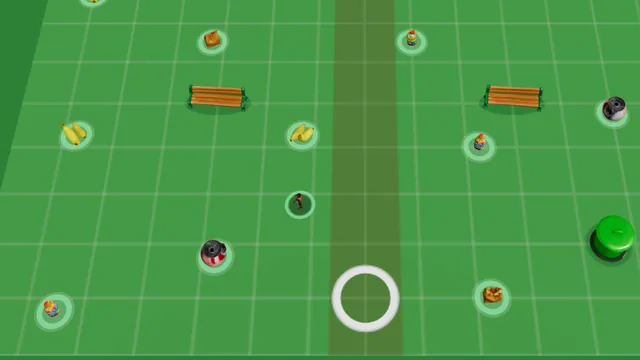
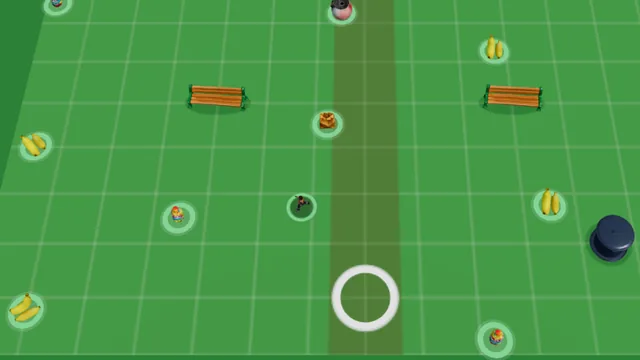
feat(clean-city): draw the bin in dark slate so it stands out on the lawn
The flat-lid bin GLB is green and melted into the park's green lawn. Every
bin of the three maps is now drawn in slate #475569 (assets.ts BIN_COLOR,
also the stand-in drum's colour): Primitives.tsx BinProp instances the bin
like <InstancedModel> (useModel + modelParts, one InstancedMesh per map)
with binLook.ts clones of its material, albedo map dropped, colour set,
normal and metal/roughness maps kept. Made once before the first render and
disposed on unmount; no per-frame work, draw calls unchanged.

binLook.test.ts checks the real GLB's material, the clone, the contrast on
all three grounds and the shared stand-in colour. Thumbnail recaptured; the
OG card's crop does not reach the bin, so it is unchanged.

diff --git a/play50games-frontend/src/arcade3d/games/clean-city/Primitives.tsx b/play50games-frontend/src/arcade3d/games/clean-city/Primitives.tsx
@@ -2,17 +2,18 @@
 
 // Clean the City look: three outdoor grounds, the obstacle props and the litter stand-ins.
 // Decoration only. Positions come from rules.ts MAPS (the same squares the runner collides with,
-// propSpots.ts). Every obstacle is an <InstancedModel> (one draw call per GLB per map) whose
-// fallback is its primitive: bench, bin, lamp, palm and umbrella draw their group D GLBs fitted to
-// the squares (assets.ts), one per propSpots.ts GLB_PROPS entry, its asset and spots as listed
-// there (GlbProps); trees and buildings have no GLB and stay primitives. Litter stand-ins are the
+// propSpots.ts). Every obstacle is an <InstancedModel> (one draw call per GLB per map; the bin the
+// same through BinProp, in slate: binLook.ts) whose fallback is its primitive: bench, bin, lamp,
+// palm and umbrella draw their group D GLBs fitted to the squares (assets.ts), one per propSpots.ts
+// GLB_PROPS entry, its asset and spots as listed there (GlbProps); trees and buildings have no GLB and stay primitives. Litter stand-ins are the
 // fallbackParts of one <DynamicInstancedModel> pool per kind (Scene.tsx).
-import { memo, useEffect, useMemo, useState, type ComponentType, type MutableRefObject, type ReactNode } from "react";
-import { BoxGeometry, CapsuleGeometry, CylinderGeometry, MeshStandardMaterial, type BufferGeometry, type Group, type Material } from "three";
-import { InstancedModel } from "@/arcade3d/core/assets";
-import { Instanced, useCanvasTexture, type CanvasDraw, type InstancePart, type InstanceSpot } from "@/arcade3d/core/render";
+import { memo, useEffect, useMemo, useRef, useState, type ComponentType, type MutableRefObject, type ReactNode } from "react";
+import { BoxGeometry, CapsuleGeometry, CylinderGeometry, MeshStandardMaterial, type BufferGeometry, type Group, type InstancedMesh, type Material } from "three";
+import { InstancedModel, modelParts, useModel, type ModelPart } from "@/arcade3d/core/assets";
+import { Instanced, useCanvasTexture, useInstanceMatrices, type CanvasDraw, type InstancePart, type InstanceSpot } from "@/arcade3d/core/render";
 import type { ModelAsset } from "@/arcade3d/core/types";
-import { ASSETS } from "./assets";
+import { ASSETS, BIN_COLOR } from "./assets";
+import { disposeMaterials, slateMaterials } from "./binLook";
 import { BASE_SETS, CITY_BUILDING, GLB_PROPS, PARK_TREE, type GlbKind } from "./propSpots";
 import { FLOOR_HALF, LITTER_KINDS, MAPS } from "./rules";
 
@@ -26,7 +27,7 @@ const COLORS = {
    benchLeg: "#78716c",
    trunk: "#92400e",
    leaves: "#166534",
-   bin: "#475569",
+   bin: BIN_COLOR,
    binRim: "#94a3b8",
    facade: "#64748b",
    roof: "#334155",
@@ -122,6 +123,36 @@ function Prop({ asset, spots, fallback }: { asset: ModelAsset; spots: readonly I
          <InstancedModel asset={asset} spots={spots} fallback={fallback} />
       </group>
    );
+}
+
+/**
+ * The bins: like <Prop>, one InstancedMesh per GLB mesh for all `spots` (core modelParts places it
+ * as <InstancedModel> would), but drawn in slate (binLook.ts): <InstancedModel> draws the GLB's own
+ * cached material, and the bin GLB is green, lost on the park's lawn. The slate clones are made once
+ * per loaded GLB, before the first render (no needsUpdate, nothing per frame), and disposed of here;
+ * the geometry and textures stay the loader cache's. The primitive while the GLB is missing or broken.
+ */
+function BinProp({ spots, fallback }: { spots: readonly InstanceSpot[]; fallback: ReactNode }) {
+   const asset = ASSETS.bin;
+   const { scene } = useModel(asset);
+   const parts = useMemo(
+      () => (scene ? modelParts(scene, asset).map((part) => ({ ...part, material: slateMaterials(part.material) })) : null),
+      [scene, asset]
+   );
+   useEffect(() => () => parts?.forEach((part) => disposeMaterials(part.material)), [parts]);
+   if (spots.length === 0) return null;
+   return (
+      <group name={`prop-${asset.id}`}>
+         {parts && parts.length > 0 ? parts.map((part, i) => <BinPart key={i} part={part} spots={spots} />) : fallback}
+      </group>
+   );
+}
+
+function BinPart({ part, spots }: { part: ModelPart; spots: readonly InstanceSpot[] }) {
+   const mesh = useRef<InstancedMesh>(null);
+   useInstanceMatrices(mesh, spots, part.matrix);
+   // dispose={null}: the geometry belongs to the loader cache, the material to BinProp
+   return <instancedMesh ref={mesh} args={[part.geometry, part.material, spots.length]} dispose={null} />;
 }
 
 interface PartsProps {
@@ -230,14 +261,16 @@ const GLB_FALLBACK: Record<GlbKind, ComponentType<PartsProps>> = {
 
 /**
  * Every GLB_PROPS entry of map `map`, and nothing else: its asset on its spots, its kind's primitive
- * as the fallback. Then the bases of BASE_SETS (the palm planters, the umbrella stands), one
- * <Instanced> per part, drawn under the GLB or its fallback alike.
+ * as the fallback (the bin's asset is ASSETS.bin, drawn by BinProp in slate). Then the bases of
+ * BASE_SETS (the palm planters, the umbrella stands), one <Instanced> per part, drawn under the GLB
+ * or its fallback alike.
  */
 function GlbProps({ map }: { map: number }) {
    return (
       <>
          {GLB_PROPS.filter((set) => set.map === map).map((set) => {
             const Fallback = GLB_FALLBACK[set.kind];
+            if (set.kind === "bin") return <BinProp key={set.kind} spots={set.spots} fallback={<Fallback spots={set.spots} />} />;
             return <Prop key={set.kind} asset={set.asset} spots={set.spots} fallback={<Fallback spots={set.spots} />} />;
          })}
          {BASE_SETS.filter((set) => set.map === map).map(({ kind, part, spots }, i) => (

diff --git a/play50games-frontend/src/arcade3d/games/clean-city/binLook.test.ts b/play50games-frontend/src/arcade3d/games/clean-city/binLook.test.ts
@@ -1,0 +1,105 @@
+// The bin's slate look (binLook.ts, README "Obstacle props"): the GLB's own material recoloured,
+// detail maps kept, and a colour that stands out on all three grounds.
+import { readFileSync } from "node:fs";
+import path from "node:path";
+import { MeshBasicMaterial, MeshStandardMaterial, Texture } from "three";
+import { describe, expect, it } from "vitest";
+import { ASSETS, BIN_COLOR } from "./assets";
+import { disposeMaterials, slateMaterial, slateMaterials } from "./binLook";
+import { GLB_PROPS } from "./propSpots";
+import { MAPS } from "./rules";
+
+interface GlbMaterial {
+   pbrMetallicRoughness?: { baseColorTexture?: unknown; baseColorFactor?: number[]; metallicRoughnessTexture?: unknown };
+   normalTexture?: unknown;
+}
+
+function glbJson(url: string): { materials: GlbMaterial[]; meshes: { primitives: { material?: number; attributes: Record<string, number> }[] }[] } {
+   const glb = readFileSync(path.join(process.cwd(), "public", url));
+   return JSON.parse(glb.subarray(20, 20 + glb.readUInt32LE(12)).toString("utf8"));
+}
+
+/** WCAG relative luminance of a #rrggbb colour. */
+function luminance(hex: string): number {
+   const [r, g, b] = [1, 3, 5].map((i) => {
+      const c = parseInt(hex.slice(i, i + 2), 16) / 255;
+      return c <= 0.04045 ? c / 12.92 : ((c + 0.055) / 1.055) ** 2.4;
+   });
+   return 0.2126 * r + 0.7152 * g + 0.0722 * b;
+}
+const contrast = (a: string, b: string) => {
+   const [hi, lo] = [luminance(a), luminance(b)].sort((x, y) => y - x);
+   return (hi + 0.05) / (lo + 0.05);
+};
+
+/** A material as GLTFLoader makes the bin's: white colour times the albedo map, plus the detail maps. */
+function glbLikeMaterial() {
+   const maps = { map: new Texture(), normalMap: new Texture(), roughnessMap: new Texture(), metalnessMap: new Texture() };
+   return { maps, material: new MeshStandardMaterial({ ...maps, color: "#ffffff", name: "model" }) };
+}
+
+describe("clean-city bin: slate, not green", () => {
+   it("the bin GLB is one mesh with one material: an albedo texture (the green) on a white factor, plus normal and metal/roughness maps", () => {
+      const json = glbJson(ASSETS.bin.url);
+      expect(json.meshes).toHaveLength(1);
+      expect(json.meshes[0].primitives.map((p) => p.material)).toEqual([0]);
+      expect(json.meshes[0].primitives[0].attributes.COLOR_0).toBeUndefined();
+      expect(json.materials).toHaveLength(1);
+      const [material] = json.materials;
+      // the colour lives in the albedo map alone, so dropping the map leaves exactly `color`
+      expect(material.pbrMetallicRoughness?.baseColorTexture).toBeDefined();
+      expect(material.pbrMetallicRoughness?.baseColorFactor ?? [1, 1, 1, 1]).toEqual([1, 1, 1, 1]);
+      expect(material.normalTexture).toBeDefined();
+      expect(material.pbrMetallicRoughness?.metallicRoughnessTexture).toBeDefined();
+   });
+
+   it("slateMaterial drops the albedo map, sets BIN_COLOR, keeps the normal, roughness and metalness maps, and leaves the GLB's material alone", () => {
+      const { maps, material } = glbLikeMaterial();
+      const slate = slateMaterial(material);
+      expect(slate).not.toBe(material);
+      expect(slate).toBeInstanceOf(MeshStandardMaterial);
+      expect(slate.map).toBeNull();
+      expect(`#${slate.color.getHexString()}`).toBe(BIN_COLOR);
+      expect(slate.normalMap).toBe(maps.normalMap);
+      expect(slate.roughnessMap).toBe(maps.roughnessMap);
+      expect(slate.metalnessMap).toBe(maps.metalnessMap);
+      expect(slate.name).toBe("bin-slate");
+      // the cached GLB material is untouched (other copies, a later mount)
+      expect(material.map).toBe(maps.map);
+      expect(material.color.getHexString()).toBe("ffffff");
+   });
+
+   it("slateMaterials handles a material list and a non-standard material; disposeMaterials frees the clones only", () => {
+      const { maps, material } = glbLikeMaterial();
+      const list = slateMaterials([material, new MeshBasicMaterial()]) as MeshStandardMaterial[];
+      expect(list).toHaveLength(2);
+      for (const slate of list) {
+         expect(slate).toBeInstanceOf(MeshStandardMaterial);
+         expect(slate.map).toBeNull();
+         expect(`#${slate.color.getHexString()}`).toBe(BIN_COLOR);
+      }
+      let disposed = 0;
+      list.forEach((slate) => slate.addEventListener("dispose", () => disposed++));
+      let mapDisposed = false;
+      maps.normalMap.addEventListener("dispose", () => (mapDisposed = true));
+      disposeMaterials(list);
+      expect(disposed).toBe(2);
+      expect(mapDisposed).toBe(false);
+   });
+
+   it("BIN_COLOR is a dark slate that stands out on the park lawn, the city asphalt and the beach sand", () => {
+      const [r, g, b] = [1, 3, 5].map((i) => parseInt(BIN_COLOR.slice(i, i + 2), 16));
+      expect(b).toBeGreaterThan(r);
+      expect(b).toBeGreaterThan(g);
+      expect(luminance(BIN_COLOR)).toBeLessThan(0.12);
+      // the green GLB on the lawn was about 1; the lighter slate #64748b would be 1.4 and 1.5
+      for (const map of MAPS) expect(contrast(BIN_COLOR, map.ground)).toBeGreaterThan(2);
+   });
+
+   it("the GLB and its stand-in share the colour, and every bin of the three maps is ASSETS.bin", () => {
+      expect(ASSETS.bin.fallbackColor).toBe(BIN_COLOR);
+      const bins = GLB_PROPS.filter((set) => set.kind === "bin");
+      expect(bins.map((set) => set.map).sort()).toEqual([0, 1, 2]);
+      for (const set of bins) expect(set.asset).toBe(ASSETS.bin);
+   });
+});

diff --git a/play50games-frontend/src/arcade3d/games/clean-city/binLook.ts b/play50games-frontend/src/arcade3d/games/clean-city/binLook.ts
@@ -1,0 +1,31 @@
+// The bin's slate look (2026-10-08, README "Obstacle props"). The flat-lid bin GLB is green and
+// melted into the park's green lawn, so it is drawn dark slate, in code (no regeneration): its own
+// material cloned with the albedo map dropped (`map = null`) and `color` = BIN_COLOR, the normal and
+// metal/roughness maps kept, so the lid, its handle and the base ring keep their relief. The same
+// recolour as warehouse-rush's crate: multiplying the green albedo by slate would give a dark olive,
+// never slate. Pure three.js, no React: Primitives.tsx `BinProp` makes the clones once, before the
+// first render, and disposes of them; binLook.test.ts checks them.
+import { MeshStandardMaterial, type Material } from "three";
+import { BIN_COLOR } from "./assets";
+
+/** One slate clone of a bin material (a plain slate material if the GLB's is not a standard one). */
+export function slateMaterial(source: Material, color: string = BIN_COLOR): MeshStandardMaterial {
+   if (source instanceof MeshStandardMaterial) {
+      const material = source.clone();
+      material.map = null;
+      material.color.set(color);
+      material.name = "bin-slate";
+      return material;
+   }
+   return new MeshStandardMaterial({ color, roughness: 0.55, name: "bin-slate" });
+}
+
+/** slateMaterial over a mesh's material or material list. */
+export function slateMaterials(source: Material | Material[]): Material | Material[] {
+   return Array.isArray(source) ? source.map((material) => slateMaterial(material)) : slateMaterial(source);
+}
+
+/** Frees what slateMaterials made (never the textures: they belong to the GLB's loader cache). */
+export function disposeMaterials(materials: Material | Material[]): void {
+   (Array.isArray(materials) ? materials : [materials]).forEach((material) => material.dispose());
+}

diff --git a/play50games-frontend/src/arcade3d/games/clean-city/assets.ts b/play50games-frontend/src/arcade3d/games/clean-city/assets.ts
@@ -59,6 +59,12 @@ const LITTER_SCALE = 0.5;
 const CLEANER_SCALE = 0.4994;
 /** pigeon-crossing's vehicle scales times this: a 4 m car next to the 0.95 runner. */
 const CAR_SIZE = 0.82;
+/**
+ * The bin's colour, GLB and stand-in alike (2026-10-08): dark slate. The flat-lid bin GLB is green
+ * and melted into the park's green lawn, so Primitives.tsx draws it in this colour (binLook.ts: its
+ * own material with the albedo map dropped, the normal and metal/roughness maps kept).
+ */
+export const BIN_COLOR = "#475569";
 
 /**
  * The cleaner's joints (GLB units: 1.898 x 1.902 x 0.430 T-pose, faces +z; 2026-10-08: a street
@@ -143,7 +149,7 @@ export const ASSETS = {
    bag: { ...prop("bag", "box", "#d6a46b"), scale: 0.421, stretch: [0.775, 1, 0.9] },
    // obstacle props (./assets.spec.json, group D): fitted to their obstacle squares (see above)
    bench: { ...prop("bench", "box", "#c4a574"), scale: 0.996, stretch: [1.2727, 1, 1] },
-   bin: { ...prop("bin", "cylinder", "#475569"), scale: 1.3684, stretch: [1, 0.481, 1.0038] },
+   bin: { ...prop("bin", "cylinder", BIN_COLOR), scale: 1.3684, stretch: [1, 0.481, 1.0038] },
    lamp: { ...prop("lamp", "cylinder", "#94a3b8"), scale: 1.3404, stretch: [1, 0.7852, 1] },
    palm: { ...prop("palm", "cylinder", "#15803d"), scale: 0.6734, stretch: [1, 1.3264, 1] },
    umbrella: { ...prop("umbrella", "cylinder", "#38bdf8"), scale: 0.8428 },

diff --git a/play50games-frontend/src/arcade3d/games/clean-city/README.md b/play50games-frontend/src/arcade3d/games/clean-city/README.md
@@ -18,7 +18,8 @@ The mechanic is the robot-collector one: walk, touch an item, it is collected. M
 | `pickup.ts` / `pickup.test.ts` | The cleaner's pickup, pure and allocation-free (see "The cleaner"): `pickupPose` puts a stoop (pelvis, thighs, knees, spine, chest; the soles kept flat on the floor) on top of the walk or the idle and points the nearer hand from the stooped shoulder down towards the piece with core `aimArm`; `localOffset` / `pickupSide` turn the piece's world position into the cleaner's frame and pick the hand; `notePickup` is `Scene.tsx` Cleaner's per-frame bookkeeping (a stoop towards the slot this step collected, `run.events.collected`, with the nearer hand; a cheer instead on a map's 20th piece and once on the win). The test checks `notePickup` on a real seeded run (rules `createRun` + `step`, the runner put beside a piece: the hand by side and heading, the slot read, a whole run's 57 stoops and 3 cheers) and the pose on the core rig with the cleaner's landmarks: weight 0 changes nothing, the soles on the floor at every weight, speed and piece position, the crouch (hips and head down, knees forward), the hand nearer the piece and low, the aim's limits, and no arm near the T-pose at any weight (the old reach fails that measure). |
 | `cleaner.test.ts` | Vitest for the cleaner on the real mesh: the core character checks (`describeCharacter`: landmarks against the estimate, bind pose, arms down, feet on the floor, rigid head), its 0.95 height, the pickup's stoop at a stand, a walk and a run and the cheer (also blended over the walk) above the floor, the real hand going towards the piece and the head coming down, and the planted sole through the gait at a walk and a run (net travel and drift within a stance). |
 | `camera.ts` | The camera constants (pitch, follow, reach, the fitted view's options). Plain data, shared by `Scene.tsx` and `props.test.ts`. |
-| `Primitives.tsx` / `propSpots.ts` | Park, city and beach look: ground, paths, the obstacle props (`<InstancedModel>` per kind and map: GLBs for benches, bins, lamps, palms and umbrellas, primitives for trees and buildings, each primitive also the GLB's fallback; the palms' planters and the umbrellas' stands, one `<Instanced>` per part), and the stand-ins of the cleaner (`PrimitiveRunner`) and the litter. `propSpots.ts` is the pure part: where each prop stands (the rules' squares), how it is turned, and the bases (`PROP_BASE`, `BASE_SETS`). Its `GLB_PROPS` is the one list of GLB props and `BASE_SETS` the one list of base parts: `Primitives.tsx` `GlbProps` draws exactly their entries, so `props.test.ts` checks what is drawn. |
+| `Primitives.tsx` / `propSpots.ts` | Park, city and beach look: ground, paths, the obstacle props (`<InstancedModel>` per kind and map, the bins through `BinProp` in slate: GLBs for benches, bins, lamps, palms and umbrellas, primitives for trees and buildings, each primitive also the GLB's fallback; the palms' planters and the umbrellas' stands, one `<Instanced>` per part), and the stand-ins of the cleaner (`PrimitiveRunner`) and the litter. `propSpots.ts` is the pure part: where each prop stands (the rules' squares), how it is turned, and the bases (`PROP_BASE`, `BASE_SETS`). Its `GLB_PROPS` is the one list of GLB props and `BASE_SETS` the one list of base parts: `Primitives.tsx` `GlbProps` draws exactly their entries, so `props.test.ts` checks what is drawn. |
+| `binLook.ts` / `binLook.test.ts` | The bin's slate look (see "Obstacle props"), pure three.js: `slateMaterial` clones the bin GLB's material with the albedo map dropped and `color` = `assets.ts` `BIN_COLOR` (#475569), the normal and metal/roughness maps kept; `Primitives.tsx` `BinProp` draws the bins with those clones (once per loaded GLB, before the first render). The test checks the real GLB's one material (its colour only in the albedo map), the clone (map dropped, colour, detail maps kept, the cached material untouched), the colour's contrast on all three grounds, and the stand-in sharing it. |
 | `Decor.tsx` / `decorSpots.ts` | Decoration beyond the floor (see "Decor around the maps"): the ground around the park and the city, the city's kerb, street line and parked cars, the park's pigeons (built in code). `decorSpots.ts` is the pure part (spots, the pigeons' animation). |
 | `decorSpots.test.ts` | Vitest for the decor: every footprint (the car GLBs as drawn; the pigeon's parts in every pose, pecks and flight included) outside the floor content and the pickup burst's reach, and clear of every obstacle square, litter spot and reachable runner position of all three maps; the car GLBs in the manifest and at their sizes; the pigeon's size, facing and triangle count. |
 | `Hud.tsx` | The map name (Park / City / Beach). Fixed box, `data-arcade-safe-area`. |
@@ -224,6 +225,7 @@ Group D (2026-10-07): the bench, bin, lamp, palm and umbrella GLBs draw the obst
 - **Never hides litter.** `props.test.ts` casts rays from the fitted cameras (1280 × 800, 1920 × 1080, 390 × 844, 375 × 812, 844 × 390 and 768 × 1024 with no HUD rects, the closest each fit allows, and a far camera with rays near 56°) from a 3 × 3 grid over the follow range, to the middle (0.4 up) of every litter spot near a prop, against the real triangles: none is blocked (a 2.18 palm, a 2.55 lamp, a 1.91 bin or a 1.85 bench would be). The tallest prop, the 2.0 lamp, stays under `VIEW.area`'s 2.6.
 - **Playtest** (production build, headless Chrome, a bot clearing the maps; 1280 × 800 keyboard and 390 × 844 touch, cookie banner open; screenshots of all three maps): every prop reads as itself at play size (the slatted benches, the domed green bins, the dark lamp posts with cream globes, the palms, the red and white umbrellas). The bin is green on the park's green lawn, so it stands out less there than the old slate drum did: at play size it reads as a striped, glossy green dome (a ball or a watermelon more than a bin; its slot does not show on a phone), and at 1.25 it is 1.3 times the runner (the slate drum was 1.06). Lowering it does not help: its 1.40 width is fixed by the square (and the 95 % span check), so a lower bin is squatter and rounder, more ball-like. Open, the user decides: accept it, or approve a regeneration of a bin with a flat lid or a contrasting rim (an assets decision, Hyper3D credits). A ray from the live camera to each piece's middle, every 2.5 s, never met a GLB prop. Draw calls with the decor hidden, against origin/main (no decor there): park 15 (18), city 15 (17), beach 14 (17); the obstacles alone 4 (7), 4 (6), 3 (6). With the decor: park 17, city 21, beach 14 (highest seen in a run 18, 22, 15). Re-played after merging main (code-built pigeons) and the review fixes (2026-10-08, same build and sizes, a bot winning all three maps with keys and with the joystick, banner open): park 17 calls / 60.6k triangles, city 21 / 68.9k, beach 14 / 65.3k at map entry; no litter piece behind a GLB prop in 100 samples, the runner never covered in them; geometries and textures flat over 2 Retries; no console errors; the pigeon GLB is no longer fetched. Pushed into each palm, the runner's centre stopped 0.83–0.96 from the nearest drawn part below its head from the camera side and the floor's middle, 1.07 only on (−8, −8)'s wall side; 0.72 from a pole.
 - **The bin, regenerated with a flat lid** (2026-10-08, the user's Hyper3D regeneration after the playtest above: the domed bin read as a green ball). Imported and optimized with `tools/hyper3d` (`import` + `optimize clean-city --id bin`: 1,500 triangles, 512 px WebP, 48 KB, replacing the old 103 KB file in place), fitted to the same 1.4 square and 1.25 height (`scale 1.3684, stretch [1, 0.481, 1.0038]`; the GLB is 1.023 × 1.899 × 1.019, so the fit squashes its height by 0.48 where the old one took 0.65). From the game camera it now reads as a bin: a green drum with a flat lid, the lid's handle and a dark base ring, on desktop and on a phone (it is still green on the park's green lawn; a contrasting colour would be another asset decision). The domed one and taller fits (1.40, 1.55) were compared side by side at play size: the flat lid is what makes the difference; 1.25 keeps the documented size, the runner ratio and every litter ray clear. `assets.spec.json` asks for the flat lid now.
+- **The bin in slate** (2026-10-08, user-approved, in code, no regeneration): the green bin still melted into the park's lawn, so every bin of the three maps is drawn dark slate `#475569` (`assets.ts` `BIN_COLOR`, also the stand-in drum's colour). `<InstancedModel>` draws a GLB with its own cached material, so `Primitives.tsx` `BinProp` instances the bin the same way (core `useModel` + `modelParts`, one InstancedMesh per map, the same fit and spots) with `binLook.ts` clones of that material: the albedo map dropped (the GLB's colour lives only there, on a white factor; slate times the green map would be olive), `color` = slate, the normal and metal/roughness maps kept, so the lid, its handle and the base ring keep their relief. Made once per loaded GLB before the first render and disposed of on unmount: no per-frame work, draw calls unchanged (park 17, city 21, beach 18 at map entry), one texture fewer on the GPU. Luminance contrast 2.2 on the lawn, 2.4 on the asphalt and 5.1 on the sand (the lighter slate `#64748b`: 1.4 and 1.5); `binLook.test.ts` keeps it over 2. Playtest (production build with the arcade flags and the API mock, headless Chrome over CDP, a bot through all three maps, a win at 1280 × 800 keys, banner declined; 390 × 844 joystick, banner open; and once with the bin GLB blocked): from the game camera the bin reads as a dark slate can with a flat lid on the lawn, the asphalt and the sand, on desktop and on a phone; the stand-in drum is the same slate under its light rim; no console errors. The thumbnail was recaptured (`tools/thumbs`): the slate bin shows at its right edge; the OG card's middle crop does not reach it, so the card was not rebuilt.
 - **Playtest of the bases, the bin and the pickup** (2026-10-08, production build with the arcade flags and the API mock, headless Chrome over CDP, a bot playing through to the beach and pushing into every palm and pole from the camera side and from the floor's middle; 1280 × 800 keys, banner declined, won; 390 × 844 joystick, banner open): the runner's ring stops at the planter and at the stand on every push (before: on bare sand short of the trunk and the pole); the planters read as brown octagons and the stands as dark discs under the canopies at play size on both; the bin as above; no console errors; draw calls at map entry park 17, city 21–22, beach 18–19 (14–15 before: the four base parts), beach triangles 66.0k (65.3k). Pickup sequences (every rendered frame from just before a pickup, side, front three-quarter and the game camera's angle up close, plus the game camera itself): the cleaner bends at the hips and knees over the piece as it shrinks, the nearer hand reaching down to it, and straightens up within 0.45 s while walking on; at play size the figure visibly crouches over the piece (desktop), on a phone the 7 px figure shrinks a little.
 - **Not changed:** trees and buildings (no GLB, primitives). The 2.8 tall buildings can cover a piece right behind them from the closest desktop camera (seen twice in one city run, the same before this change).
 
